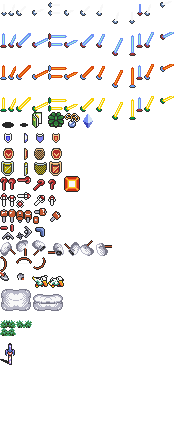
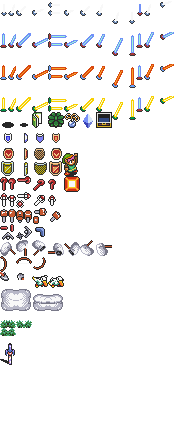
Z3/TFP: Add more animations

Changed region(s): [[0.3125, 0.3438, 0.4062, 0.4062], [0.5, 0.25, 0.5938, 0.3125]]

diff --git a/source/snes/zelda3/triforcepiece/sprite.py b/source/snes/zelda3/triforcepiece/sprite.py
@@ -11,6 +11,7 @@ from source.meta.classes.spritelib import SpriteParent
 class Sprite(SpriteParent):
     def __init__(self, filename, manifest_dict, my_subpath, sprite_name=""):
         super().__init__(filename, manifest_dict, my_subpath, sprite_name)
+        self.load_plugins()
 
         # Icons are sideview, so only left/right direction buttons should show
         self.overhead = False
@@ -90,6 +91,16 @@ class Sprite(SpriteParent):
             (False, False, False)
           ]
         }
+
+    def import_cleanup(self):
+        '''
+        Post-import cleanup
+        '''
+        self.load_plugins()
+        self.equipment = self.plugins.equipment_test(False)
+        if hasattr(self, "images"):
+            self.images["transparent"] = Image.new("RGBA",(0,0),0)
+            self.images = dict(self.images,**self.equipment)
 
     def import_from_ROM(self, rom):
         author_data = self.translate_author(rom)

diff --git a/source/snes/zelda3/link/equipment.py b/source/snes/zelda3/link/equipment.py
@@ -83,7 +83,9 @@ def equipment_test(save=False):
         "book":         ((32,112),(16,16)),
         "bush":         ((48,112),(16,16)),
         "pendant":      ((64,112),(16,16)),
-        "crystal":      ((80,112),(16,16))
+        "crystal":      ((80,112),(16,16)),
+        "open_chest":   ((96,112),(16,16)),
+        "get_link":     ((62,137),(22,39))
     }
     #add some inventory stuff
     for key in inventory:

diff --git a/source/snes/zelda3/triforcepiece/plugins.py b/source/snes/zelda3/triforcepiece/plugins.py
@@ -1,0 +1,16 @@
+import json
+import os
+from source.meta.classes.pluginslib import PluginsParent
+from source.snes.zelda3.link import equipment
+
+# FIXME: English
+
+class Plugins(PluginsParent):
+    def __init__(self):
+        super().__init__()
+        plugins = [
+        ]
+        self.set_plugins(plugins)
+
+    def equipment_test(self, save=False):
+        return equipment.equipment_test(save)
